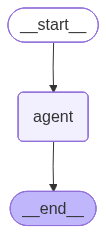
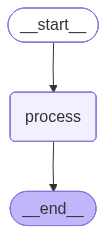
Refactor agent bot example to use a single OpenAI chat model instance for processing messages. Updated function names and improved user interaction for continuous conversation. Also, updated graph visualization to reflect changes in the processing flow.

Changed region(s): [[0.2264, 0.4786, 0.7642, 0.5385], [0.7925, 0.3889, 0.934, 0.6282], [0.0849, 0.3889, 0.1981, 0.6282]]

diff --git a/examples/6_agent_bot.py b/examples/6_agent_bot.py
@@ -25,6 +25,9 @@ from langgraph.graph import END, START, StateGraph
 # Load environment variables from .env file
 load_dotenv()
 
+# Initialize the OpenAI chat model
+llm = ChatOpenAI(model="gpt-4o")
+
 
 # We now create an AgentState - shared data structure that keeps track of
 # information as your application runs.
@@ -32,24 +35,11 @@ class AgentState(TypedDict):
     messages: List[HumanMessage]
 
 
-def agent_node(state: AgentState) -> AgentState:
-    """Agent node that processes messages using OpenAI"""
-    # Initialize the OpenAI chat model
-    model = ChatOpenAI(model="gpt-3.5-turbo")
-
-    # Get the last message from the state
-    messages = state["messages"]
-    last_message = messages[-1] if messages else None
-
-    if last_message:
-        # Invoke the model with the message
-        response = model.invoke([last_message])
-        # Add the response to messages
-        state["messages"].append(response)
-        print(f"Agent response: {response.content}")
-    else:
-        print("No messages to process")
-
+def process(state: AgentState) -> AgentState:
+    """Process messages using OpenAI"""
+    response = llm.invoke(state["messages"])
+    print(f"\nAI: {response.content}")
+    state["messages"].append(response)
     return state
 
 
@@ -92,33 +82,20 @@ def generate_and_display_graph(
 if __name__ == "__main__":
     # Create and configure the graph
     graph = StateGraph(AgentState)
-    graph.add_node("agent", agent_node)
-
-    # Set entry point and flow
-    graph.add_edge(START, "agent")
-    graph.add_edge("agent", END)
-
-    app = graph.compile()
+    graph.add_node("process", process)
+    graph.add_edge(START, "process")
+    graph.add_edge("process", END)
+    agent = graph.compile()
 
     # Generate and save the graph visualization
-    generate_and_display_graph(app)
+    generate_and_display_graph(agent)
 
-    # Example usage
+    # Example usage - interactive input with continuous conversation
     print("\n" + "="*50)
     print("Agent Bot Example")
     print("="*50 + "\n")
 
-    initial_state: AgentState = {
-        "messages": [
-            HumanMessage(content="Hello! What is the capital of France?")
-        ]
-    }
-
-    result = app.invoke(initial_state)
-
-    print("\n" + "="*50)
-    print("Conversation:")
-    print("="*50)
-    for i, msg in enumerate(result["messages"], 1):
-        msg_type = "Human" if isinstance(msg, HumanMessage) else "Agent"
-        print(f"{msg_type} {i}: {msg.content}")
+    user_input = input("Enter: ")
+    while user_input != "exit":
+        agent.invoke({"messages": [HumanMessage(content=user_input)]})
+        user_input = input("Enter: ")
